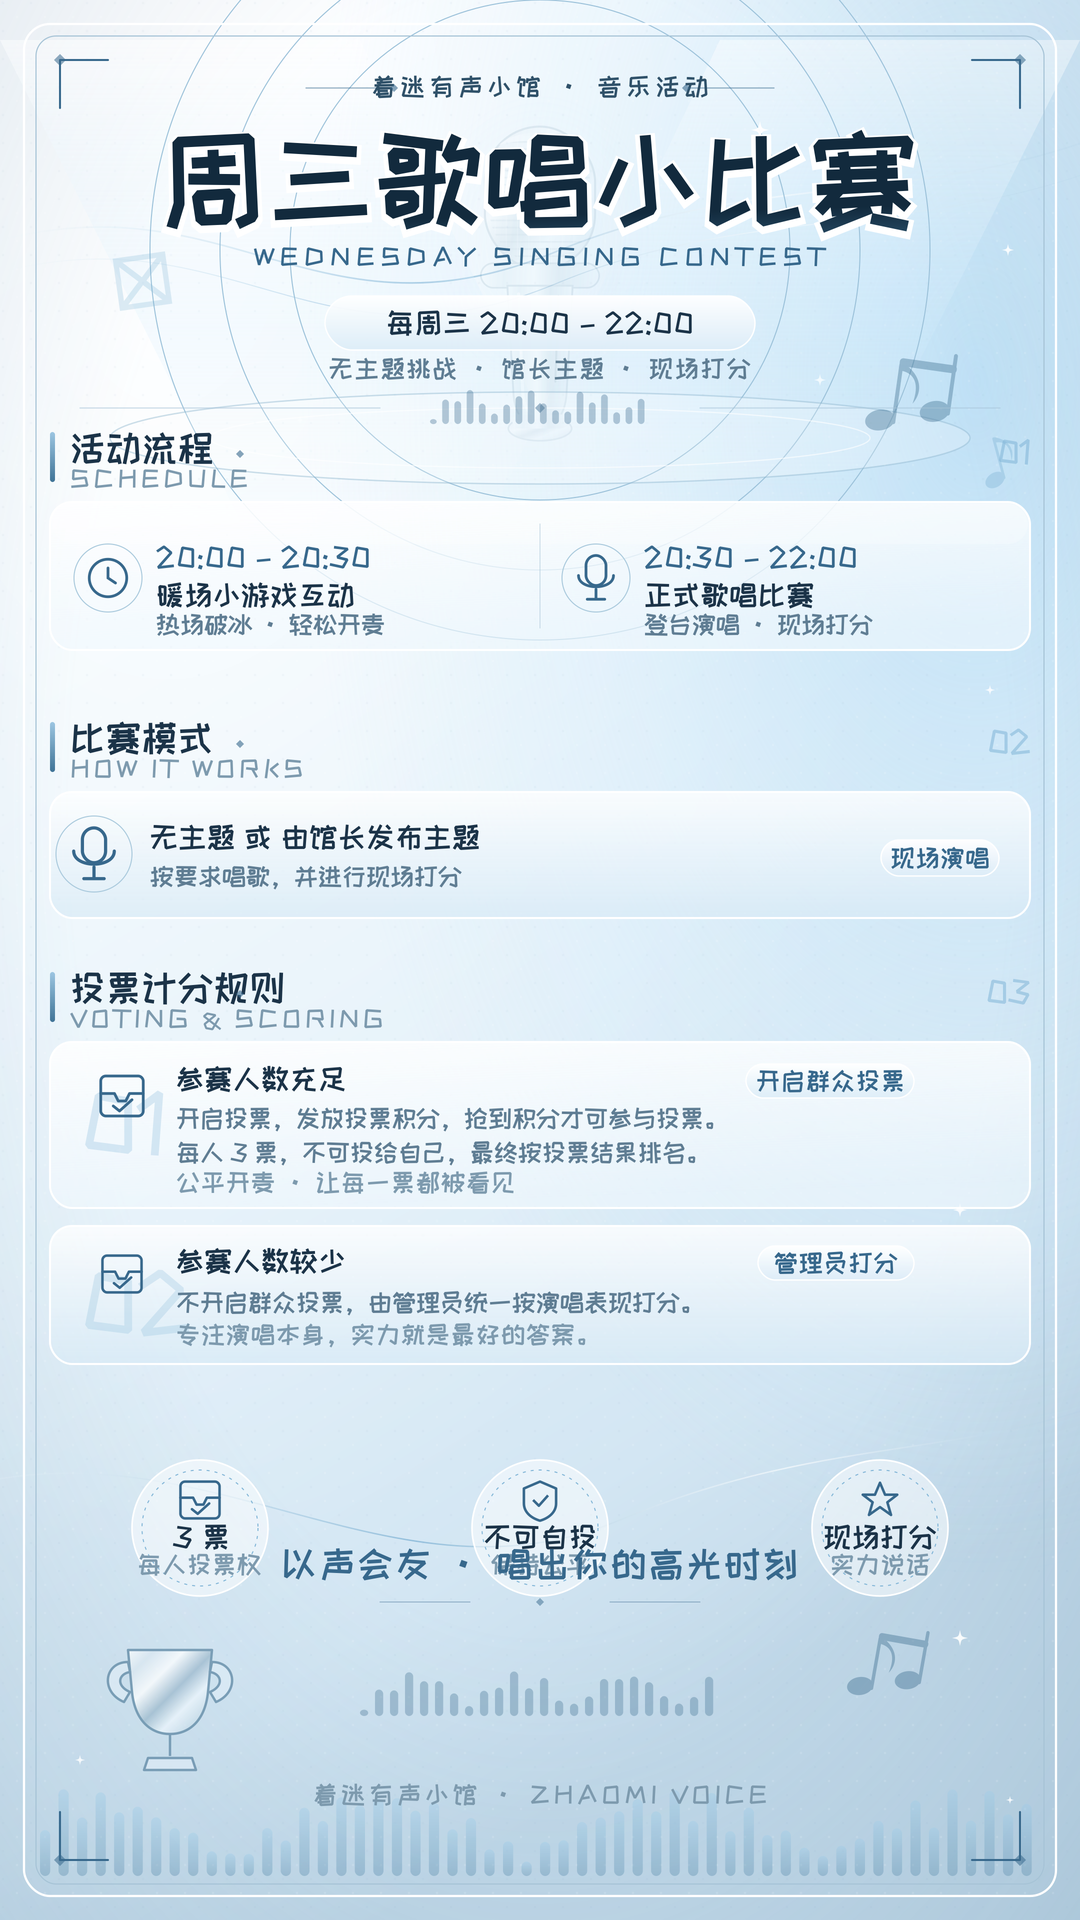
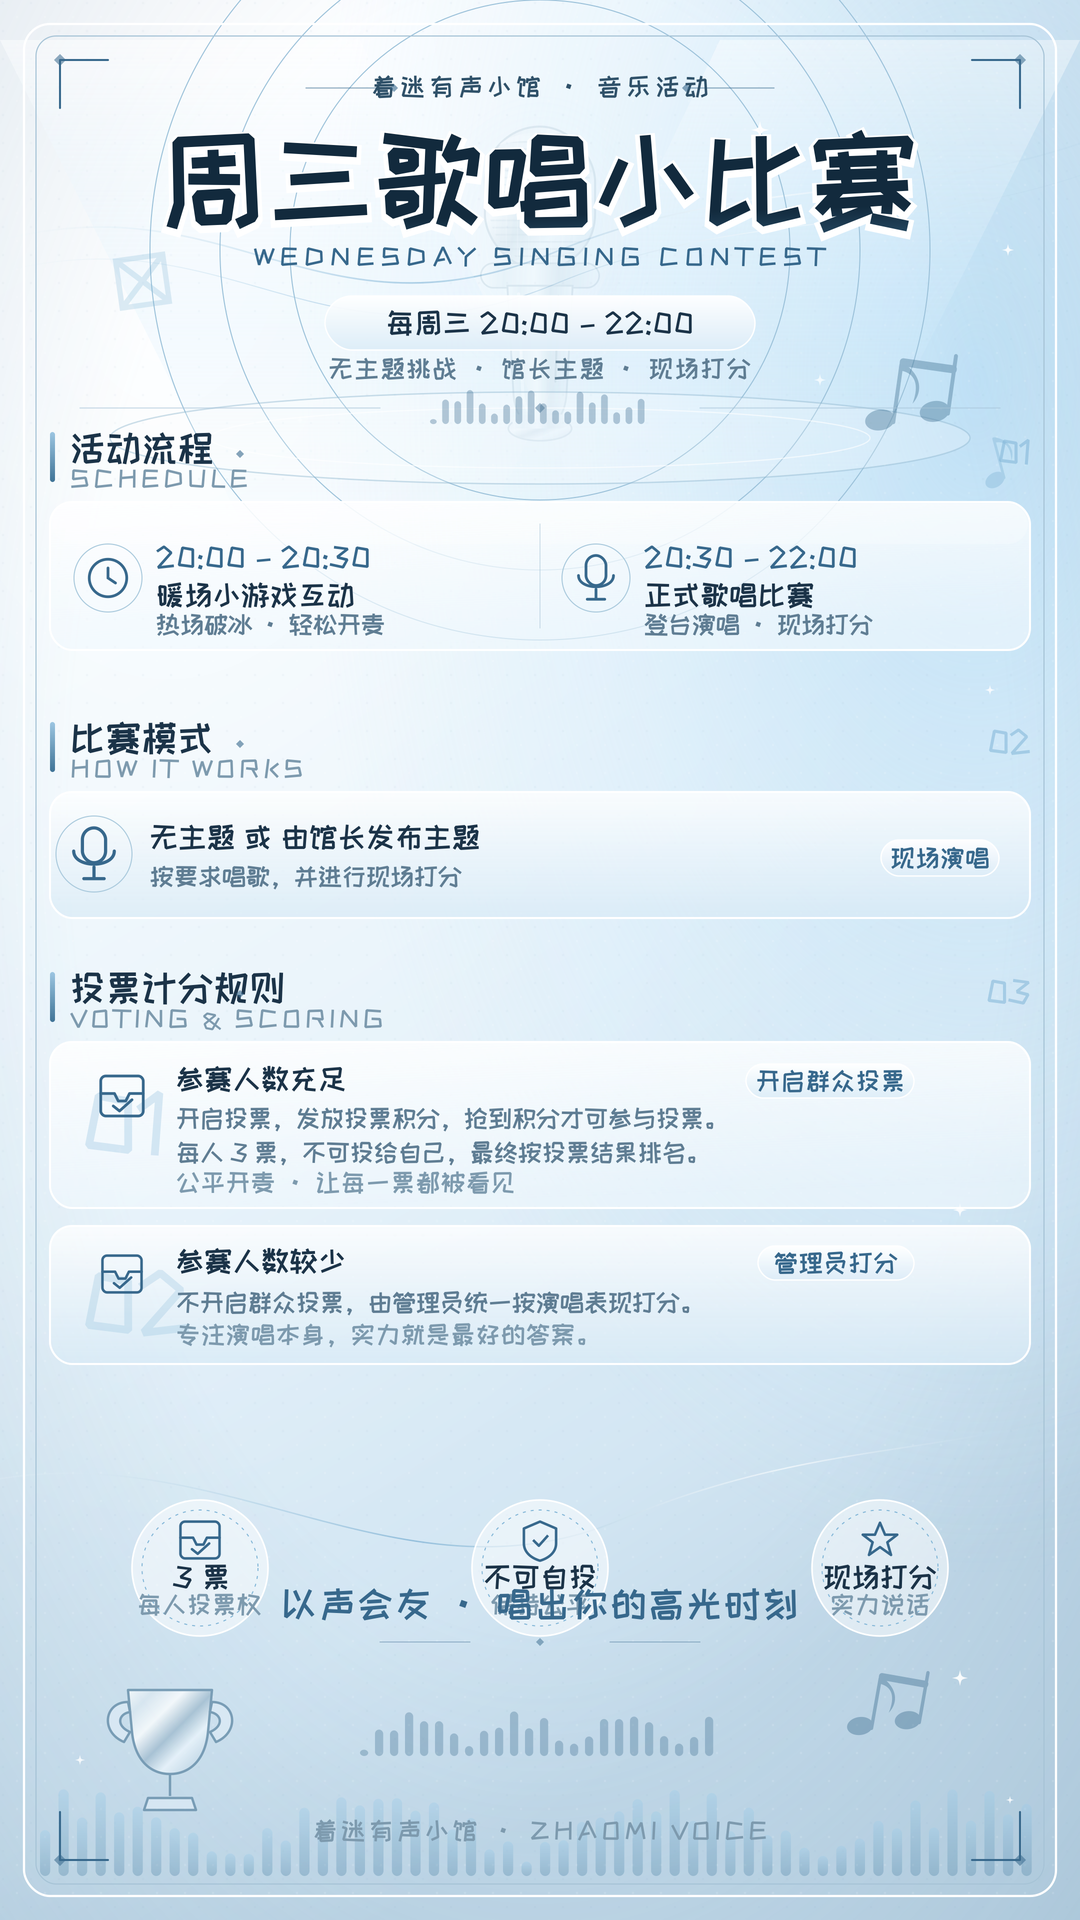
修复周三歌唱小比赛底部徽章与标语文字重叠

Changed region(s): [[0.275, 0.75, 0.8861, 0.9688], [0.0917, 0.75, 0.3972, 0.9375]]

diff --git a/poster/rules-posters/generate.py b/poster/rules-posters/generate.py
@@ -912,7 +912,7 @@ def build_wednesday():
     o.append(T(176, c2y + 118, "专注演唱本身，实力就是最好的答案。", size=26, fill=SOFT, ls=1))
 
     # ===== 三个关键词徽章 =====
-    by = 1472
+    by = 1512
     badges = [("3 票", "每人投票权", icon_ballot), ("不可自投", "保持公平", icon_shield), ("现场打分", "实力说话", icon_star_badge)]
     for i, (big, small, ic) in enumerate(badges):
         cx = 200 + i * 340
@@ -921,17 +921,17 @@ def build_wednesday():
         o.append(ic(cx, by + 28, 1.15, c=ICE_DEEP))
         o.append(T(cx, by + 76, big, size=30, fill=INK, weight=800, anchor="middle", ls=1))
         o.append(T(cx, by + 102, small, size=26, fill=SOFT, anchor="middle", ls=1))
-    o.append(T(540, 1578, "以声会友 · 唱出你的高光时刻", size=38, fill=ICE_DEEP, weight=700, anchor="middle", font=SERIF, ls=3))
-    o.append(line(380, 1602, 470, 1602, stroke=ICE_DEEP, sw=1, op=0.4))
-    o.append(line(610, 1602, 700, 1602, stroke=ICE_DEEP, sw=1, op=0.4))
-    o.append(diamond(540, 1602, 4, fill=ICE_DEEP, op=0.5))
+    o.append(T(540, 1618, "以声会友 · 唱出你的高光时刻", size=38, fill=ICE_DEEP, weight=700, anchor="middle", font=SERIF, ls=3))
+    o.append(line(380, 1642, 470, 1642, stroke=ICE_DEEP, sw=1, op=0.4))
+    o.append(line(610, 1642, 700, 1642, stroke=ICE_DEEP, sw=1, op=0.4))
+    o.append(diamond(540, 1642, 4, fill=ICE_DEEP, op=0.5))
 
     # 底部
-    o.append(trophy(170, 1700, 1.0, op=0.75))
-    o.append(note(860, 1686, 1.0, fill=ICE_DEEP, op=0.4, rot=10, double=True))
-    o.append(sparkle(960, 1638, 8, fill=WHITE, op=0.9))
-    o.append(wave_bars(360, 1670, 360, 46, n=24, fill=ICE_DEEP, op=0.32))
-    o.append(T(540, 1804, "着迷有声小馆  ·  ZHAOMI  VOICE", size=26, fill=SOFT, weight=600, anchor="middle", ls=4))
+    o.append(trophy(170, 1740, 1.0, op=0.75))
+    o.append(note(860, 1726, 1.0, fill=ICE_DEEP, op=0.4, rot=10, double=True))
+    o.append(sparkle(960, 1678, 8, fill=WHITE, op=0.9))
+    o.append(wave_bars(360, 1710, 360, 46, n=24, fill=ICE_DEEP, op=0.32))
+    o.append(T(540, 1840, "着迷有声小馆  ·  ZHAOMI  VOICE", size=26, fill=SOFT, weight=600, anchor="middle", ls=4))
 
     o.append(frame(W, H))
     o.append('</svg>')
